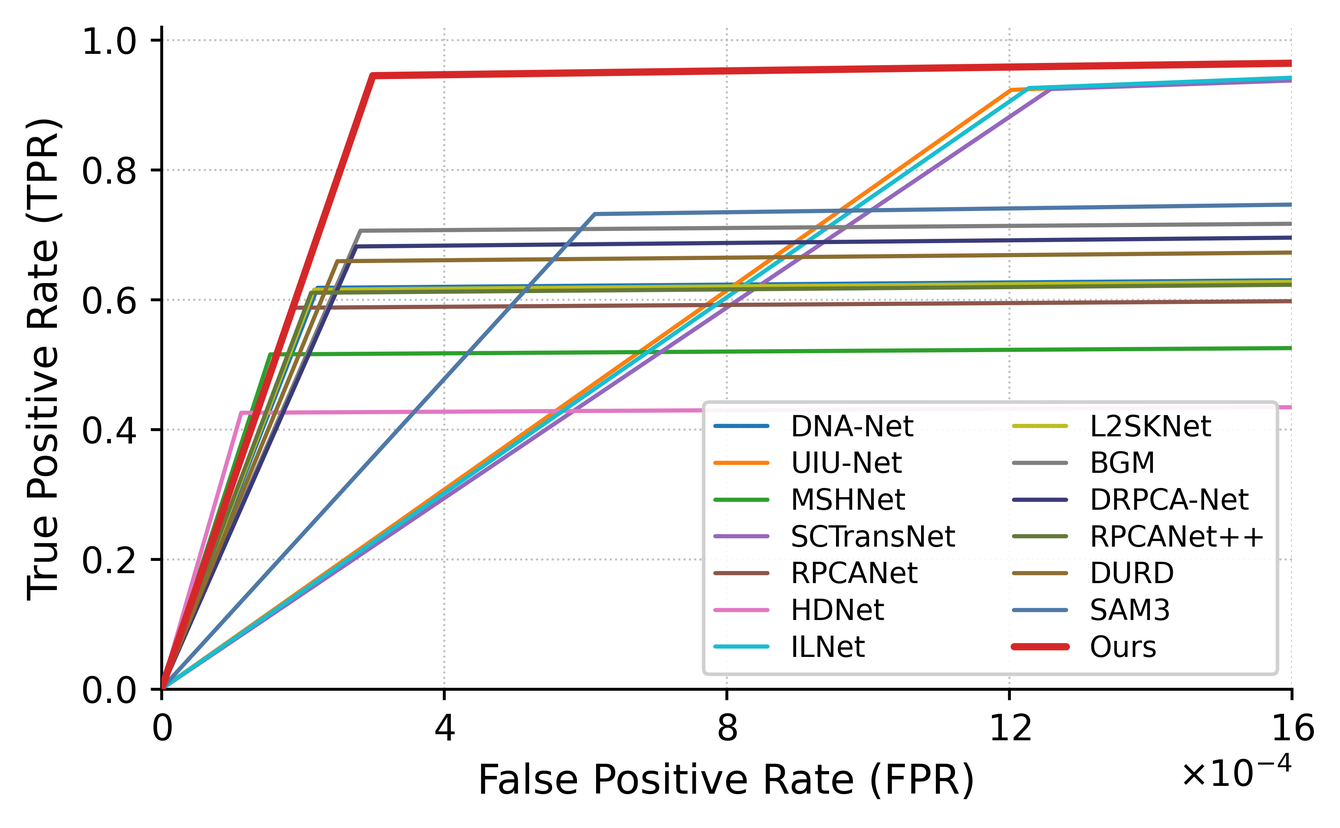
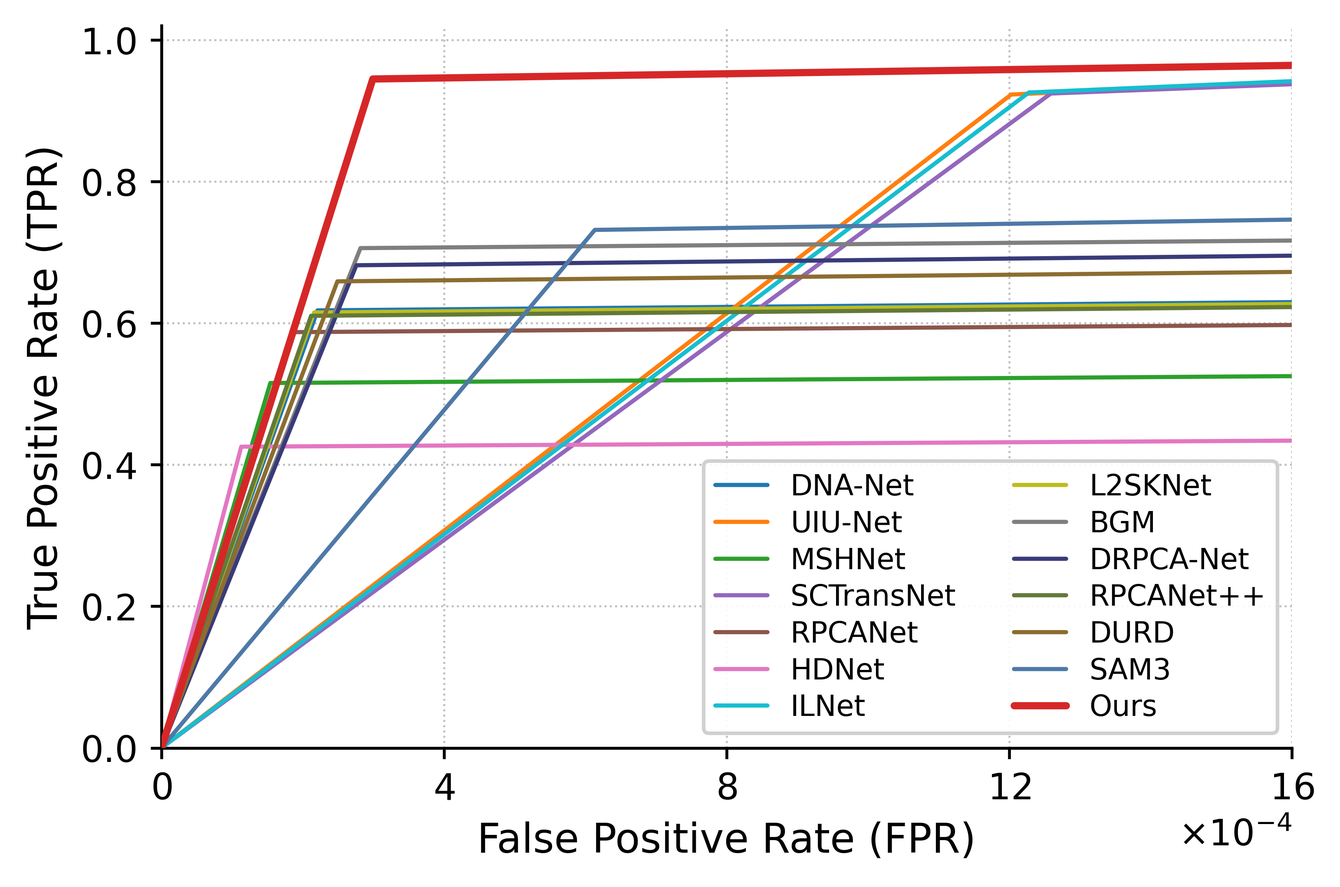
roc / pr_obj 高度从 3.3 in 提到 3.6 in，图例不再压住平台线
- 目的：框内图例（14 条、两列、8 pt）原来顶到 y≈0.45，正好盖住 HDNet 0.434 与
  MSHNet 0.522 的平台段；高度加到 3.6 in 后图例上沿降到 y≈0.40，这两条平台露出。
- tools/plot_roc_pr.py 新增 --fig-height（默认 3.3，--square 时忽略），
  roc 用 5.6x3.6；pr_obj 用 5.487x3.5387 对齐，两张 PNG 同为 3087x2043（1.51:1）。
- 字号仍是 --font-scale 1.25，曲线样式（无点、实线、倒角、图例只写方法名）不变。
- 服务器同步：roc.png sha ed344917…、pr_obj.png 50ab5f07…；docs 预览与 AGENTS/README 同步。

diff --git a/tools/plot_roc_pr.py b/tools/plot_roc_pr.py
@@ -303,6 +303,8 @@ def main():
     ap_.add_argument('--dpi', type=int, default=600)
     ap_.add_argument('--pr-style', choices=('v1', 'v2'), default='v1',
                      help='v1 = full PR curve with the (0,1) sentinel; v2 = trimmed')
+    ap_.add_argument('--fig-height', type=float, default=3.3,
+                     help='panel height in inches (ignored with --square)')
     ap_.add_argument('--fig-width', type=float, default=4.5,
                      help='single-panel figure width in inches (raise it for a longer x axis)')
     ap_.add_argument('--square', action='store_true',
@@ -363,7 +365,7 @@ def main():
               f'AUC={row["auc_roc"]:.4f}')
 
     # ---- ROC only, one polyline per method (the reference figure's layout)
-    fig, ax = plt.subplots(figsize=(args.fig_width, args.fig_width if args.square else 3.3))
+    fig, ax = plt.subplots(figsize=(args.fig_width, args.fig_width if args.square else args.fig_height))
     draw_roc(ax, data, args.xmax, two=args.two_segment, knee_frac=args.knee_frac, highlight=args.highlight)
     if args.square:
         ax.set_box_aspect(1)
@@ -375,7 +377,7 @@ def main():
     save(fig, args.outdir, 'roc', args.dpi)
 
     # ---- PR only
-    fig, ax = plt.subplots(figsize=(args.fig_width, args.fig_width if args.square else 3.3))
+    fig, ax = plt.subplots(figsize=(args.fig_width, args.fig_width if args.square else args.fig_height))
     draw_pr(ax, data, style=args.pr_style, highlight=args.highlight, cut_fpr=args.pr_cut_fpr,
             endpoint_dot=args.pr_endpoint_dot, min_pred=args.pr_min_pred,
             close=args.pr_close)

diff --git a/AGENTS.md b/AGENTS.md
@@ -67,7 +67,7 @@
 - 第三批（入表，行 29～32）：L2SKNet（TGRS25）、BGM（TGRS25）、DRPCA-Net（TGRS25）、DURD（TGRS26），均为 2025–2026 年、有官方代码的全监督单帧方法，12 个对比方法到此凑满。目录 `L2SKNet-main/`、`BGM-main/`、`DRPCA-Net-main/`、`DURD-main/`；训练设置：L2SKNet 150/Adam 5e-4、BGM 150/Adam 5e-4（两者模型输出已是概率，用概率空间 dataset 级 IoU）、DRPCA-Net 60/Adam 3e-5/dataset 级 SoftIoU + 0.01 MSE、DURD 100/Adam 1e-4/SoftIoU + 0.1 MSE。各处改动逐条写在对应实验记录与 [汇总](docs/Seal全监督基线评估汇总.md#训练不稳定与失败记录)。
 - 论文版式定性图（对齐 PDDiff Fig. 8/9）：[tools/build_paper_qualitative.py](tools/build_paper_qualitative.py)，每个样例两行（2D 二值面板 + 红框/放大插图；3D 响应面 `elev=26, azim=-64`、按面板 z 上限）。三条硬约束：① 3D 行必须喂**概率图**（`--surf-maps results/<M>/Seal/fullsup_test_maps`），二值图是 0/255 阶跃，画出来只有一根尖刺；② Seal 目标只有 3–5 px，`full` 版式（整幅 + 右下插图）在 0.87 in 列宽下几乎看不见，正式图用 `--roi-panels`（面板 = 6 倍放大 ROI，`--roi-min 64 --roi-margin 24`）；③ 11 列 × 11 样例按 9.6 in 出图，若按 7.2 in 排版表头掉到 5.6 pt，主图应拆成 `seal_pick6_roi` + `seal_pick5_roi` 两张。样例取 [docs/qualitative_rank_top200.json](docs/qualitative_rank_top200.json)（`score = F1(Ours) − mean_k F1(baseline_k)`，可用 [docs/qualitative_review_top200.html](docs/qualitative_review_top200.html) 逐图复核），当前采用排名 1,2,5,6,8,11,13,15,19,21,29 共 11 张，一键重建 [tools/make_paper_qualitative_pick.sh](tools/make_paper_qualitative_pick.sh)。Ours 预测在 `Ours/test_maps`（1,983 张概率图）、SAM3 在 `Ours/SAM3-test_maps`（同阈值 `>=128`）。版式规格、样例清单与读数见 [docs/Seal定性图_论文版式.md](docs/Seal定性图_论文版式.md)，预览 `docs/assets/seal_qualitative_pick6_roi.png`、`docs/assets/seal_qualitative_pick11_full.png`。全分辨率成品（600 dpi PNG + 矢量 PDF + meta，约 110 MB/版）按版本归档：服务器保留全部历史（v1 `Ours/qualitative/v1_20261104_11col/`、v2 `v2_20261105/`、v3 `v3_20261105/`、v4 `v4_20261105/`、v5 `v5_20261105/`、v6 `v6_20261105/`、v7 `v7_20261105/`、v8 `v8_20261105/`、v9 `v9_20261105/`、v10 `v10_20261105/`、v11 `v11_20261105/`、v12 `v12_20261105/`），本地只留最新一版在 `Ours/qualitative/v12_20261105/`；**整个 `Ours/qualitative/` 不进 git**（`.gitignore` 整目录排除，只有 `docs/assets/` 里的 1800 px 预览入库）。版式演进：v2 压紧列间距、3D 加网格 + 整数刻度 + 轴名、去掉黑色粗轴线；v3 加单图拆分与 Visio；v4 让 3D 盒子铺满格子（按格子尺寸渲染 PNG → 裁白边 → `aspect='auto'` 贴回）；**v5 解决「3D 白边仍偏大、峰不够高不够显眼」：裁边 26→6 px、平滑 σ 2.0→0.9、`vmax` 取平滑后峰值（峰顶到天花板）、Z 轴统一 0–255 保证跨列可比、盒子 z 比例 0.55→1.00、自定义 `seal3d` 色带（深蓝底→青→黄→亮红）+ `PowerNorm(0.45)`**；并新增 `--diag` 诊断面板（TP 白 / FP 红 / FN 绿 + 红框标 GT），Visio 改用诊断面板；**v6 把诊断面板的红框放大到至少占面板 36%（约 138 px、3 px 线）**；**v11：Ours 换成 1105 最新预测**（`Ours/test_maps` ← `1105Ours_result/Ours.zip`，旧预测存 `Ours/test_maps_20261105_prev`），版式同 v10；11 个样例在新预测下 F1 0.55–0.87、目标全检出（9 个胜全部基线，2 个仅比 SAM3 低 0.01–0.02），故沿用原 11 张；**v10 红框只留一个**：Image 列回到整幅 622×417（压缩成正方形）并画唯一一个正方形红框（v11 曾把边长统一为 `64×sqrt(sx·sy)≈48 px`；**v12 起 Image 列不再画任何红框**——统一 48 px 对 2688/2120/2894 三个大目标偏小、目标露到框外，而各列本来就是同一 ROI 的 6 倍放大，定位框不再必要，实测 Image 列 0 个红色像素；`--image-box` 仅保留为复现 v10/v11 的开关），Mask…Ours 不再画任何红框，保留 TP 白/FP 红/FN 绿；**v12 同时收紧 3D 刻度**：刻度数字向坐标轴收拢（x/y `pad` −3.0→−4.2、z −1.5→−2.2，字号 2.2→2.35），3D 渲染改用 `bbox_inches='tight'` 并统一贴到 848×804 画布（此前 3D 轴的数字画在 axes 之外、被画布直接裁掉，放进 Visio 后又被下一个样例的表头挡住），Visio `ALL` 页的 3D 图缩到 1.07 in 高（宽同比 1.129）让开下一块表头，2D 行与手画红框位置不动；`--image-mode crop417` 可换成 417×417 原比例窗口；**v9 去掉黑边**：ROI 从「以目标为中心后按边界裁」改成「固定边长正方形、贴边整体内移」，窗口永远完整落在图像内（此前 2735 这类贴右边界的样例裁成 64×43 后被补黑）；**v8 修正 Image 列**：原来它是整幅 622×417（红框=ROI 窗口），而 Mask/方法列是已经放大 6 倍的 ROI 块（红框=GT 定位框），两者天然不对应——现在 Image 列也取同一块 ROI 的 6 倍放大并套同一个定位框，11 列视野与框位置完全一致——红框是给人定位用的，v5 那版只比 GT 外扩 8 px，印刷尺寸下等于没有。**v7 再优化三点：① 3D 网格线 0.62 灰 / 0.45 pt、刻度数字 2.2 pt 近黑、每轴 3 个好刻度、去掉会撞车的 X/Y/Z 轴名；② Image 列 3D 改彩色（`seal3d` 色带 + 线性映射，与 PDDiff 一致）；③ 诊断面板遇到多目标时每个连通域各画一个红框（单目标 36% 面板、多目标 0.45/n）**。Visio 版由 [tools/make_visio_qualitative.ps1](tools/make_visio_qualitative.ps1) 用 Visio COM 生成（仅 Windows + 已装 Visio）：**第 1 页 `ALL` 把 11 个样例纵向摞成一页**（表头只出现一次，253 个形状，15×31.3 in），之后每样例一页（每页 34 个独立形状：表头矩形 + 22 张图片 + 页脚说明），全部可手动调整格式。
 - 定性图（论文拼图用）：12 个方法与 Ours 的二值预测图在 `results/<Method>/Seal/test_binary/`（1,983 张，`pixel >= 128` → 255），由 [tools/make_binary_maps.py](tools/make_binary_maps.py) 与 [tools/make_qualitative.sh](tools/make_qualitative.sh) 生成；样例拼图在服务器 `qualitative/<stem>/panel.png`（RGB/热红外/GT/预测叠加，13 行），样例清单 `docs/Seal定性对比样例.json`，说明见 [docs/Seal定性对比图.md](docs/Seal定性对比图.md)。
-- ROC / P-R / Pd–Fa 曲线：像素级曲线用 [tools/roc_hist.py](tools/roc_hist.py) 把预测值按 GT 前景（`gt > 127`）/背景分箱成 256 桶直方图（[tools/roc_hist_all.sh](tools/roc_hist_all.sh) → `results/roc_hist/<Method>.json`），目标级曲线用 [tools/target_curves.py](tools/target_curves.py) 在 63 个阈值上做 8 连通 + 质心 <3 px 一对一匹配（[tools/target_curves_all.sh](tools/target_curves_all.sh) 13 进程并行约 1.5 h → `results/target_curves/<Method>.json`）；出图分别是 [tools/plot_roc_pr.py](tools/plot_roc_pr.py) 与 [tools/plot_target_curves.py](tools/plot_target_curves.py)。产物按版本存 `Ours/roc_pr/<version>/`，**`v10_20261105/`（正文主图，Ours + 8 个重点对比方法：DNA-Net / MSHNet / RPCANet / HDNet / L2SKNet / BGM / RPCANet++ / SAM3）与 `v11_20261105/`（全量 14 条：再加 UIU-Net / SCTransNet / ILNet / DRPCA-Net / DURD）**，两者横轴都改成 **0–16×10⁻⁴（刻度 0/4/8/12/16）**，斜线因此更陡；**v10 用 1:1 坐标框（`--square`），v11 用 6.8×3.3 的长方形画布（不带 `--square`，约 1.92:1，用户偏好）**；`v9_20261105/`（全量）与 `v8_20261105/`（8 个）是 8×10⁻⁴ 宽扁版式的前身**，画法沿用 v5，Ours 红色加粗置顶（`--highlight Ours`）；`v7_20261105/` 是旧 Ours 预测的同一版式，`v6_20261105/` 是误删 Ours 的一版，二者仅留档；`v5_20261105/` 为 13 方法版（Ours + 12 基线），**`v12_20261105/` 为现行目标级 Pd–Fa（1105 批次，线性 + log）**，**`v13_20261105/` 是 v11 的 P-R 改进版**（画布、ROC 与 v11 逐点相同，只改 P-R 的显示：`--pr-min-pred 50000` + `--pr-endpoint-dot`，见下条），`v3_20261105/` 为旧预测的目标级版，`v4/v2/v1` 留档；每次同时存 PNG（600 dpi）与 PDF + `curves.json` + `summary.md`。**画法（用户明确要求）**：每个方法一条折线且只有两段直线——`(0,0) → 拐点 → (右边框, 平台)`；平台取右边框处的值（像素级 = TPR@FPR=窗口右端，目标级 = max Pd），拐点 = 沿横轴升序第一个 ≥0.98×平台 的点（`--two-segment`、`--knee-frac`）。横轴要够长（v10/v11 用 `--xmax 16e-4 --fig-width 4.8 --square`；v8/v9 为 `--xmax 8e-4 --fig-width 6.8`），否则平台贴右边框、看起来"戛然而止"；**`--square` 把坐标框设成 1:1**（`set_box_aspect(1)`），ROC 的斜线与纵轴夹角更小、P-R 是标准 45°；**`--legend-inside` 把图例放进坐标框**（ROC 右下、P-R 左下，>9 条自动两列），导出的 PNG 因此更紧凑（v10 正方形 2645×2564；v11 长方形 3589×1871）；两联图 `roc_pr` 的面板间距 0.28→0.14；改横轴时平台值按新的右边框取（`TPR@窗口右端`），所以 8→16×10⁻⁴ 后 SCTransNet/ILNet/UIU-Net 的平台从 0.88 升到 0.94；**面积指标仍报 `pAUC@5×10⁻⁴`**，该列不随画宽变化；P-R 保留 (0,1) 起点与 recall→1 的尾巴（`--pr-style v1`）；**P-R 为什么像"扇子且在半空截断"（v13 处理）**：Seal 预测是 8 位量化 + 大量硬零（`t=255` 时前景召回只有 0.25–0.61，多数方法在 28–57 % 的 GT 像素上恒为 0），recall 到不了 1，曲线右端自然停住；同时 `t` 接近 255 时整幅只剩几千个预测像素，precision 由个位数像素决定，于是 recall≈0 处冒出竖直毛刺、各条曲线分叉成扇面。v13 用两个**纯显示**开关处理、不动数据：`--pr-min-pred 50000` 丢掉"预测像素 < 5 万"的阈值（毛刺缩到几乎看不见）、`--pr-endpoint-dot` 在每条曲线末端加圆点（读作"到此为止"而非"画漏了"）；仍保留 (0,1) 哨兵，因为去掉后起点悬空（`--pr-style v2` 试过）。数据侧原因（硬零压低 recall）只能靠模型/后处理改，画图解决不了，分析见 [docs/Seal_ROC_PR曲线.md](docs/Seal_ROC_PR曲线.md)；**补充图 `v13_20261105/pr_1.{png,pdf}`**（`--pr-close`）把每条曲线从最后实测点**虚线**外推到 `(1,0)`、交接点画空心圆（实线=实测、虚线=外推）：这不是新数据，只说明"曲线本来就该到 (1,0)"——`recall=1` 时 precision 等于前景占比（Seal test 前景 105,712 px / 总 514,338,642 px = **2.06×10⁻⁴**），在 0–1 纵轴上即 0，所以补到 (1,0) 与补到 (1,2e-4) 肉眼无差；中间段按直线近似故称"大致"，虚线段不参与 pAUC/AP 积分，排名不变；补齐后各虚线在右下角**收成一束**是应有现象，不表示方法接近；**教科书式 P-R 两张补充图**：`v13_20261105/pr_2.{png,pdf}`（像素级、sklearn 惯例：256 个阈值含 `t=0`"全预测"、保留 (0,1) 哨兵，曲线自然终止于 (1,0)，AP 与 summary 一致 0.69984）与 `v13_20261105/pr_obj.{png,pdf}`（**对象级**：`recall` = 表中 Pd、`precision` = 匹配连通域 / 全部预测连通域，匹配规则与 Pd/Fa 相同；`t=128` 的 recall 与表中 Pd 逐位吻合、精度 Ours 0.960 vs 基线 0.66–0.75，Ours AP 0.890 vs 0.544–0.596，形状与参考图同形"高平台 + 右端陡降"，末端用实线同色补到 (1,0)、不画点、拐角 `--corner-radius 0.03` 贝塞尔倒角，**图例只写方法名**（AP 见 [docs/Seal_ROC_PR曲线.md](docs/Seal_ROC_PR曲线.md) 的表，要标回图上加 `--show-ap`）；**字号**：`roc` 与 `pr_obj` 用 `--font-scale 1.25` 出图（轴标签 9→11.25 pt、刻度 8→10 pt、图例 6.4→8 pt），画幅同步收窄到 **1.62:1**（`--fig-width 5.6`，高度固定 3.3；pr_obj 用 5.487×3.239 对齐），两张 PNG 同为 3087×1907（`plot_roc_pr.py`、`plot_pr_object.py` 都带 `--font-scale`，默认 1.0；v13 的 `pr.png`/`roc_pr.png` 仍是 1.0 版、1.92:1 宽幅）；图注须写明 0.71–0.92 → 1.0 那段不是实测，因对象级召回上限只有 0.71–0.92））；实现 [tools/target_pr.py](tools/target_pr.py)（输出 `results/target_pr/<stem>.json`，[tools/target_pr_all.sh](tools/target_pr_all.sh) 并行约 12 min）、[tools/plot_pr_object.py](tools/plot_pr_object.py)、[tools/plot_pr_textbook.py](tools/plot_pr_textbook.py)；**参考图"精度贴 1.0 平推"像素级做不到**——0.02 % 前景下 255 这一筒的精度只有 Ours 0.835、SAM3 0.651、DNA-Net 0.390，像素级只能从 0.83 起步；正文若配像素级 ROC 用 `pr_2`，配目标级 Pd–Fa（v12）用 `pr_obj`，两者 AP 不可互比、都不进 xlsx；图例贴紧坐标轴右缘（`bbox_to_anchor=(ax.x1+0.012, …)`，锚在固定图幅比例上会留一大片空白）；`--highlight` 指定加粗置顶的方法（默认 `Ours`，方法集里没有它时不加粗）；**红色只留给 highlight**，其余曲线从不含红色的 16 色调色板里取（`color_map()`），否则 14 条曲线时第一个基线和 Ours 会同为红色。**一致性**：像素级 `t=128` 的 precision/recall 可复原表中 F1/IoU（Ours precision 0.58130、recall 0.82963 → F1 0.68361、IoU 0.51931，与第 20 行一致；旧预测同点为 0.64637/0.59388 → 0.61912/0.44835）；目标级 `t=128` 的 Pd/Fa 与表中 13 行全部逐位吻合（Ours 0.89151 / 1.717e-05，与第 20 行一致；旧预测 0.82731 / 2.100e-06 存档于 `results/target_curves/Ours_prev_20261105.json`）。**读图**：① 面积指标报 **pAUC@5×10⁻⁴**（基线操作点 Fa@t=128 ≤ 2.4×10⁻⁴）；v8 换上 1105 的最新 Ours 后，两个窗口的 pAUC（**0.85234 / 0.89420**）与 AP（**0.69984**）都第一，像素 TPR@t=128 从 0.594 提到 **0.830**、FPR 从 6.7×10⁻⁵ 升到 1.2×10⁻⁴（仍是 9 个里第二低）；ROC 上 Ours 在 FPR≈3×10⁻⁴ 就到 0.94 平台，其余 8 个最高只有 0.737；SAM3 平台最高（0.737）但拐点在 4.9×10⁻⁴、Fa 是 Ours 的 3.6 倍，属"用更多误检换更高检出"，正文要把 Fa 一并给出；画到 8×10⁻⁴ 后按窗口积的 `pAUC@8×10⁻⁴` 会把弥散输出方法抬高，summary 两个窗口都列；② 全范围 AUC 不能用来排名（几乎不预测前景的方法 0.977–0.981），与 S/MAE 被背景主导同类；③ 目标级图（`v12_20261105/`，1105 批次）Ours 平台 Pd 0.922 最高、拐点 Fa 6.0×10⁻⁶ 比次优 HDNet（5.2×10⁻⁵）低 8.6 倍，拐点 Fa 跨度 17 倍，**目标级仍主推 log 轴**；④ 像素级 `Pd@t=128` 是前景像素召回率，与表中目标级 Pd 不同口径。曲线成品按同样目录结构同步到服务器 `Ours/roc_pr/`，重画脚本同步在服务器 `tools/`；1105 的 Ours 预测包同时上传到服务器 `Ours/1105Ours_result/Ours.zip`。**曲线与第 20 行 Ours 的八项指标现在同为 1105 这批预测**，可以互相引证；旧预测（`test_maps_20261105_prev`）的曲线与指标只作历史对照。口径、版本对照与复现命令见 [docs/Seal_ROC_PR曲线.md](docs/Seal_ROC_PR曲线.md)，预览 `docs/assets/seal_roc_pr_v13.png`（现行，全量 14 条）、`docs/assets/seal_roc_pr_v10.png`（8 个对比方法版）、`docs/assets/seal_pd_fa_v12.png`（现行目标级）、`docs/assets/seal_pd_fa_v3.png`（旧预测目标级）。
+- ROC / P-R / Pd–Fa 曲线：像素级曲线用 [tools/roc_hist.py](tools/roc_hist.py) 把预测值按 GT 前景（`gt > 127`）/背景分箱成 256 桶直方图（[tools/roc_hist_all.sh](tools/roc_hist_all.sh) → `results/roc_hist/<Method>.json`），目标级曲线用 [tools/target_curves.py](tools/target_curves.py) 在 63 个阈值上做 8 连通 + 质心 <3 px 一对一匹配（[tools/target_curves_all.sh](tools/target_curves_all.sh) 13 进程并行约 1.5 h → `results/target_curves/<Method>.json`）；出图分别是 [tools/plot_roc_pr.py](tools/plot_roc_pr.py) 与 [tools/plot_target_curves.py](tools/plot_target_curves.py)。产物按版本存 `Ours/roc_pr/<version>/`，**`v10_20261105/`（正文主图，Ours + 8 个重点对比方法：DNA-Net / MSHNet / RPCANet / HDNet / L2SKNet / BGM / RPCANet++ / SAM3）与 `v11_20261105/`（全量 14 条：再加 UIU-Net / SCTransNet / ILNet / DRPCA-Net / DURD）**，两者横轴都改成 **0–16×10⁻⁴（刻度 0/4/8/12/16）**，斜线因此更陡；**v10 用 1:1 坐标框（`--square`），v11 用 6.8×3.3 的长方形画布（不带 `--square`，约 1.92:1，用户偏好）**；`v9_20261105/`（全量）与 `v8_20261105/`（8 个）是 8×10⁻⁴ 宽扁版式的前身**，画法沿用 v5，Ours 红色加粗置顶（`--highlight Ours`）；`v7_20261105/` 是旧 Ours 预测的同一版式，`v6_20261105/` 是误删 Ours 的一版，二者仅留档；`v5_20261105/` 为 13 方法版（Ours + 12 基线），**`v12_20261105/` 为现行目标级 Pd–Fa（1105 批次，线性 + log）**，**`v13_20261105/` 是 v11 的 P-R 改进版**（画布、ROC 与 v11 逐点相同，只改 P-R 的显示：`--pr-min-pred 50000` + `--pr-endpoint-dot`，见下条），`v3_20261105/` 为旧预测的目标级版，`v4/v2/v1` 留档；每次同时存 PNG（600 dpi）与 PDF + `curves.json` + `summary.md`。**画法（用户明确要求）**：每个方法一条折线且只有两段直线——`(0,0) → 拐点 → (右边框, 平台)`；平台取右边框处的值（像素级 = TPR@FPR=窗口右端，目标级 = max Pd），拐点 = 沿横轴升序第一个 ≥0.98×平台 的点（`--two-segment`、`--knee-frac`）。横轴要够长（v10/v11 用 `--xmax 16e-4 --fig-width 4.8 --square`；v8/v9 为 `--xmax 8e-4 --fig-width 6.8`），否则平台贴右边框、看起来"戛然而止"；**`--square` 把坐标框设成 1:1**（`set_box_aspect(1)`），ROC 的斜线与纵轴夹角更小、P-R 是标准 45°；**`--legend-inside` 把图例放进坐标框**（ROC 右下、P-R 左下，>9 条自动两列），导出的 PNG 因此更紧凑（v10 正方形 2645×2564；v11 长方形 3589×1871）；两联图 `roc_pr` 的面板间距 0.28→0.14；改横轴时平台值按新的右边框取（`TPR@窗口右端`），所以 8→16×10⁻⁴ 后 SCTransNet/ILNet/UIU-Net 的平台从 0.88 升到 0.94；**面积指标仍报 `pAUC@5×10⁻⁴`**，该列不随画宽变化；P-R 保留 (0,1) 起点与 recall→1 的尾巴（`--pr-style v1`）；**P-R 为什么像"扇子且在半空截断"（v13 处理）**：Seal 预测是 8 位量化 + 大量硬零（`t=255` 时前景召回只有 0.25–0.61，多数方法在 28–57 % 的 GT 像素上恒为 0），recall 到不了 1，曲线右端自然停住；同时 `t` 接近 255 时整幅只剩几千个预测像素，precision 由个位数像素决定，于是 recall≈0 处冒出竖直毛刺、各条曲线分叉成扇面。v13 用两个**纯显示**开关处理、不动数据：`--pr-min-pred 50000` 丢掉"预测像素 < 5 万"的阈值（毛刺缩到几乎看不见）、`--pr-endpoint-dot` 在每条曲线末端加圆点（读作"到此为止"而非"画漏了"）；仍保留 (0,1) 哨兵，因为去掉后起点悬空（`--pr-style v2` 试过）。数据侧原因（硬零压低 recall）只能靠模型/后处理改，画图解决不了，分析见 [docs/Seal_ROC_PR曲线.md](docs/Seal_ROC_PR曲线.md)；**补充图 `v13_20261105/pr_1.{png,pdf}`**（`--pr-close`）把每条曲线从最后实测点**虚线**外推到 `(1,0)`、交接点画空心圆（实线=实测、虚线=外推）：这不是新数据，只说明"曲线本来就该到 (1,0)"——`recall=1` 时 precision 等于前景占比（Seal test 前景 105,712 px / 总 514,338,642 px = **2.06×10⁻⁴**），在 0–1 纵轴上即 0，所以补到 (1,0) 与补到 (1,2e-4) 肉眼无差；中间段按直线近似故称"大致"，虚线段不参与 pAUC/AP 积分，排名不变；补齐后各虚线在右下角**收成一束**是应有现象，不表示方法接近；**教科书式 P-R 两张补充图**：`v13_20261105/pr_2.{png,pdf}`（像素级、sklearn 惯例：256 个阈值含 `t=0`"全预测"、保留 (0,1) 哨兵，曲线自然终止于 (1,0)，AP 与 summary 一致 0.69984）与 `v13_20261105/pr_obj.{png,pdf}`（**对象级**：`recall` = 表中 Pd、`precision` = 匹配连通域 / 全部预测连通域，匹配规则与 Pd/Fa 相同；`t=128` 的 recall 与表中 Pd 逐位吻合、精度 Ours 0.960 vs 基线 0.66–0.75，Ours AP 0.890 vs 0.544–0.596，形状与参考图同形"高平台 + 右端陡降"，末端用实线同色补到 (1,0)、不画点、拐角 `--corner-radius 0.03` 贝塞尔倒角，**图例只写方法名**（AP 见 [docs/Seal_ROC_PR曲线.md](docs/Seal_ROC_PR曲线.md) 的表，要标回图上加 `--show-ap`）；**字号**：`roc` 与 `pr_obj` 用 `--font-scale 1.25` 出图（轴标签 9→11.25 pt、刻度 8→10 pt、图例 6.4→8 pt），画幅 **1.51:1**（`--fig-width 5.6 --fig-height 3.6`；pr_obj 用 5.487×3.5387 对齐），两张 PNG 同为 3087×2043（高度从 3.3 in 提到 3.6 in 是为了让框内图例不再压住平台线：HDNet 的 0.434 平台正好露在框上沿）（`plot_roc_pr.py`、`plot_pr_object.py` 都带 `--font-scale`，默认 1.0；v13 的 `pr.png`/`roc_pr.png` 仍是 1.0 版、1.92:1 宽幅）；图注须写明 0.71–0.92 → 1.0 那段不是实测，因对象级召回上限只有 0.71–0.92））；实现 [tools/target_pr.py](tools/target_pr.py)（输出 `results/target_pr/<stem>.json`，[tools/target_pr_all.sh](tools/target_pr_all.sh) 并行约 12 min）、[tools/plot_pr_object.py](tools/plot_pr_object.py)、[tools/plot_pr_textbook.py](tools/plot_pr_textbook.py)；**参考图"精度贴 1.0 平推"像素级做不到**——0.02 % 前景下 255 这一筒的精度只有 Ours 0.835、SAM3 0.651、DNA-Net 0.390，像素级只能从 0.83 起步；正文若配像素级 ROC 用 `pr_2`，配目标级 Pd–Fa（v12）用 `pr_obj`，两者 AP 不可互比、都不进 xlsx；图例贴紧坐标轴右缘（`bbox_to_anchor=(ax.x1+0.012, …)`，锚在固定图幅比例上会留一大片空白）；`--highlight` 指定加粗置顶的方法（默认 `Ours`，方法集里没有它时不加粗）；**红色只留给 highlight**，其余曲线从不含红色的 16 色调色板里取（`color_map()`），否则 14 条曲线时第一个基线和 Ours 会同为红色。**一致性**：像素级 `t=128` 的 precision/recall 可复原表中 F1/IoU（Ours precision 0.58130、recall 0.82963 → F1 0.68361、IoU 0.51931，与第 20 行一致；旧预测同点为 0.64637/0.59388 → 0.61912/0.44835）；目标级 `t=128` 的 Pd/Fa 与表中 13 行全部逐位吻合（Ours 0.89151 / 1.717e-05，与第 20 行一致；旧预测 0.82731 / 2.100e-06 存档于 `results/target_curves/Ours_prev_20261105.json`）。**读图**：① 面积指标报 **pAUC@5×10⁻⁴**（基线操作点 Fa@t=128 ≤ 2.4×10⁻⁴）；v8 换上 1105 的最新 Ours 后，两个窗口的 pAUC（**0.85234 / 0.89420**）与 AP（**0.69984**）都第一，像素 TPR@t=128 从 0.594 提到 **0.830**、FPR 从 6.7×10⁻⁵ 升到 1.2×10⁻⁴（仍是 9 个里第二低）；ROC 上 Ours 在 FPR≈3×10⁻⁴ 就到 0.94 平台，其余 8 个最高只有 0.737；SAM3 平台最高（0.737）但拐点在 4.9×10⁻⁴、Fa 是 Ours 的 3.6 倍，属"用更多误检换更高检出"，正文要把 Fa 一并给出；画到 8×10⁻⁴ 后按窗口积的 `pAUC@8×10⁻⁴` 会把弥散输出方法抬高，summary 两个窗口都列；② 全范围 AUC 不能用来排名（几乎不预测前景的方法 0.977–0.981），与 S/MAE 被背景主导同类；③ 目标级图（`v12_20261105/`，1105 批次）Ours 平台 Pd 0.922 最高、拐点 Fa 6.0×10⁻⁶ 比次优 HDNet（5.2×10⁻⁵）低 8.6 倍，拐点 Fa 跨度 17 倍，**目标级仍主推 log 轴**；④ 像素级 `Pd@t=128` 是前景像素召回率，与表中目标级 Pd 不同口径。曲线成品按同样目录结构同步到服务器 `Ours/roc_pr/`，重画脚本同步在服务器 `tools/`；1105 的 Ours 预测包同时上传到服务器 `Ours/1105Ours_result/Ours.zip`。**曲线与第 20 行 Ours 的八项指标现在同为 1105 这批预测**，可以互相引证；旧预测（`test_maps_20261105_prev`）的曲线与指标只作历史对照。口径、版本对照与复现命令见 [docs/Seal_ROC_PR曲线.md](docs/Seal_ROC_PR曲线.md)，预览 `docs/assets/seal_roc_pr_v13.png`（现行，全量 14 条）、`docs/assets/seal_roc_pr_v10.png`（8 个对比方法版）、`docs/assets/seal_pd_fa_v12.png`（现行目标级）、`docs/assets/seal_pd_fa_v3.png`（旧预测目标级）。
 - IoU 的边界敏感性：Seal 目标平均 14.3 像素，把 GT 膨胀/腐蚀 1 像素当预测只能得到 IoU 0.3910 / 0.0826；表中 IoU 0.19–0.31 对应约 1–2 像素边界误差，不能读作分割质量百分比，须与 Fw/F1/Pd/Fa 合看，详见 [定义对照](docs/小目标评价指标_定义与代码对照.md#iou-的边界敏感性seal-gt-实测)。
 - 实验记录：[ACM](docs/ACM_Seal实验记录.md)、[DNA-Net](docs/DNANet_Seal实验记录.md)、[MSHNet](docs/MSHNet_Seal实验记录.md)、[UIU-Net](docs/UIU-Net_Seal实验记录.md)、[SCTransNet](docs/SCTransNet_Seal实验记录.md)、[RPCANet](docs/RPCANet_Seal实验记录.md)、[HDNet](docs/HDNet_Seal实验记录.md)、[ILNet](docs/ILNet_Seal实验记录.md)、[RPCANet++](docs/RPCANet++_Seal实验记录.md)、[L2SKNet](docs/L2SKNet_Seal实验记录.md)、[BGM](docs/BGM_Seal实验记录.md)、[DRPCA-Net](docs/DRPCA-Net_Seal实验记录.md)、[DURD](docs/DURD_Seal实验记录.md)、[DHiF](docs/DHiF_Seal实验记录.md)，汇总见 [Seal全监督基线评估汇总](docs/Seal全监督基线评估汇总.md)，定性图见 [Seal定性对比图](docs/Seal定性对比图.md)。
 

diff --git a/README.md b/README.md
@@ -70,7 +70,7 @@
 - 第三批（入表，行 29～32）：L2SKNet（TGRS25）、BGM（TGRS25）、DRPCA-Net（TGRS25）、DURD（TGRS26），均为 2025–2026 年、有官方代码的全监督单帧方法，12 个对比方法到此凑满。目录 `L2SKNet-main/`、`BGM-main/`、`DRPCA-Net-main/`、`DURD-main/`；训练设置：L2SKNet 150/Adam 5e-4、BGM 150/Adam 5e-4（两者模型输出已是概率，用概率空间 dataset 级 IoU）、DRPCA-Net 60/Adam 3e-5/dataset 级 SoftIoU + 0.01 MSE、DURD 100/Adam 1e-4/SoftIoU + 0.1 MSE。各处改动逐条写在对应实验记录与 [汇总](docs/Seal全监督基线评估汇总.md#训练不稳定与失败记录)。
 - 论文版式定性图（对齐 PDDiff Fig. 8/9）：[tools/build_paper_qualitative.py](tools/build_paper_qualitative.py)，每个样例两行（2D 二值面板 + 红框/放大插图；3D 响应面 `elev=26, azim=-64`、按面板 z 上限）。三条硬约束：① 3D 行必须喂**概率图**（`--surf-maps results/<M>/Seal/fullsup_test_maps`），二值图是 0/255 阶跃，画出来只有一根尖刺；② Seal 目标只有 3–5 px，`full` 版式（整幅 + 右下插图）在 0.87 in 列宽下几乎看不见，正式图用 `--roi-panels`（面板 = 6 倍放大 ROI，`--roi-min 64 --roi-margin 24`）；③ 11 列 × 11 样例按 9.6 in 出图，若按 7.2 in 排版表头掉到 5.6 pt，主图应拆成 `seal_pick6_roi` + `seal_pick5_roi` 两张。样例取 [docs/qualitative_rank_top200.json](docs/qualitative_rank_top200.json)（`score = F1(Ours) − mean_k F1(baseline_k)`，可用 [docs/qualitative_review_top200.html](docs/qualitative_review_top200.html) 逐图复核），当前采用排名 1,2,5,6,8,11,13,15,19,21,29 共 11 张，一键重建 [tools/make_paper_qualitative_pick.sh](tools/make_paper_qualitative_pick.sh)。Ours 预测在 `Ours/test_maps`（1,983 张概率图）、SAM3 在 `Ours/SAM3-test_maps`（同阈值 `>=128`）。版式规格、样例清单与读数见 [docs/Seal定性图_论文版式.md](docs/Seal定性图_论文版式.md)，预览 `docs/assets/seal_qualitative_pick6_roi.png`、`docs/assets/seal_qualitative_pick11_full.png`。全分辨率成品（600 dpi PNG + 矢量 PDF + meta，约 110 MB/版）按版本归档：服务器保留全部历史（v1 `Ours/qualitative/v1_20261104_11col/`、v2 `v2_20261105/`、v3 `v3_20261105/`、v4 `v4_20261105/`、v5 `v5_20261105/`、v6 `v6_20261105/`、v7 `v7_20261105/`、v8 `v8_20261105/`、v9 `v9_20261105/`、v10 `v10_20261105/`、v11 `v11_20261105/`、v12 `v12_20261105/`），本地只留最新一版在 `Ours/qualitative/v12_20261105/`；**整个 `Ours/qualitative/` 不进 git**（`.gitignore` 整目录排除，只有 `docs/assets/` 里的 1800 px 预览入库）。版式演进：v2 压紧列间距、3D 加网格 + 整数刻度 + 轴名、去掉黑色粗轴线；v3 加单图拆分与 Visio；v4 让 3D 盒子铺满格子（按格子尺寸渲染 PNG → 裁白边 → `aspect='auto'` 贴回）；**v5 解决「3D 白边仍偏大、峰不够高不够显眼」：裁边 26→6 px、平滑 σ 2.0→0.9、`vmax` 取平滑后峰值（峰顶到天花板）、Z 轴统一 0–255 保证跨列可比、盒子 z 比例 0.55→1.00、自定义 `seal3d` 色带（深蓝底→青→黄→亮红）+ `PowerNorm(0.45)`**；并新增 `--diag` 诊断面板（TP 白 / FP 红 / FN 绿 + 红框标 GT），Visio 改用诊断面板；**v6 把诊断面板的红框放大到至少占面板 36%（约 138 px、3 px 线）**；**v11：Ours 换成 1105 最新预测**（`Ours/test_maps` ← `1105Ours_result/Ours.zip`，旧预测存 `Ours/test_maps_20261105_prev`），版式同 v10；11 个样例在新预测下 F1 0.55–0.87、目标全检出（9 个胜全部基线，2 个仅比 SAM3 低 0.01–0.02），故沿用原 11 张；**v10 红框只留一个**：Image 列回到整幅 622×417（压缩成正方形）并画唯一一个正方形红框（v11 曾把边长统一为 `64×sqrt(sx·sy)≈48 px`；**v12 起 Image 列不再画任何红框**——统一 48 px 对 2688/2120/2894 三个大目标偏小、目标露到框外，而各列本来就是同一 ROI 的 6 倍放大，定位框不再必要，实测 Image 列 0 个红色像素；`--image-box` 仅保留为复现 v10/v11 的开关），Mask…Ours 不再画任何红框，保留 TP 白/FP 红/FN 绿；**v12 同时收紧 3D 刻度**：刻度数字向坐标轴收拢（x/y `pad` −3.0→−4.2、z −1.5→−2.2，字号 2.2→2.35），3D 渲染改用 `bbox_inches='tight'` 并统一贴到 848×804 画布（此前 3D 轴的数字画在 axes 之外、被画布直接裁掉，放进 Visio 后又被下一个样例的表头挡住），Visio `ALL` 页的 3D 图缩到 1.07 in 高（宽同比 1.129）让开下一块表头，2D 行与手画红框位置不动；`--image-mode crop417` 可换成 417×417 原比例窗口；**v9 去掉黑边**：ROI 从「以目标为中心后按边界裁」改成「固定边长正方形、贴边整体内移」，窗口永远完整落在图像内（此前 2735 这类贴右边界的样例裁成 64×43 后被补黑）；**v8 修正 Image 列**：原来它是整幅 622×417（红框=ROI 窗口），而 Mask/方法列是已经放大 6 倍的 ROI 块（红框=GT 定位框），两者天然不对应——现在 Image 列也取同一块 ROI 的 6 倍放大并套同一个定位框，11 列视野与框位置完全一致——红框是给人定位用的，v5 那版只比 GT 外扩 8 px，印刷尺寸下等于没有。**v7 再优化三点：① 3D 网格线 0.62 灰 / 0.45 pt、刻度数字 2.2 pt 近黑、每轴 3 个好刻度、去掉会撞车的 X/Y/Z 轴名；② Image 列 3D 改彩色（`seal3d` 色带 + 线性映射，与 PDDiff 一致）；③ 诊断面板遇到多目标时每个连通域各画一个红框（单目标 36% 面板、多目标 0.45/n）**。Visio 版由 [tools/make_visio_qualitative.ps1](tools/make_visio_qualitative.ps1) 用 Visio COM 生成（仅 Windows + 已装 Visio）：**第 1 页 `ALL` 把 11 个样例纵向摞成一页**（表头只出现一次，253 个形状，15×31.3 in），之后每样例一页（每页 34 个独立形状：表头矩形 + 22 张图片 + 页脚说明），全部可手动调整格式。
 - 定性图（论文拼图用）：12 个方法与 Ours 的二值预测图在 `results/<Method>/Seal/test_binary/`（1,983 张，`pixel >= 128` → 255），由 [tools/make_binary_maps.py](tools/make_binary_maps.py) 与 [tools/make_qualitative.sh](tools/make_qualitative.sh) 生成；样例拼图在服务器 `qualitative/<stem>/panel.png`（RGB/热红外/GT/预测叠加，13 行），样例清单 `docs/Seal定性对比样例.json`，说明见 [docs/Seal定性对比图.md](docs/Seal定性对比图.md)。
-- ROC / P-R / Pd–Fa 曲线：像素级曲线用 [tools/roc_hist.py](tools/roc_hist.py) 把预测值按 GT 前景（`gt > 127`）/背景分箱成 256 桶直方图（[tools/roc_hist_all.sh](tools/roc_hist_all.sh) → `results/roc_hist/<Method>.json`），目标级曲线用 [tools/target_curves.py](tools/target_curves.py) 在 63 个阈值上做 8 连通 + 质心 <3 px 一对一匹配（[tools/target_curves_all.sh](tools/target_curves_all.sh) 13 进程并行约 1.5 h → `results/target_curves/<Method>.json`）；出图分别是 [tools/plot_roc_pr.py](tools/plot_roc_pr.py) 与 [tools/plot_target_curves.py](tools/plot_target_curves.py)。产物按版本存 `Ours/roc_pr/<version>/`，**`v10_20261105/`（正文主图，Ours + 8 个重点对比方法：DNA-Net / MSHNet / RPCANet / HDNet / L2SKNet / BGM / RPCANet++ / SAM3）与 `v11_20261105/`（全量 14 条：再加 UIU-Net / SCTransNet / ILNet / DRPCA-Net / DURD）**，两者横轴都改成 **0–16×10⁻⁴（刻度 0/4/8/12/16）**，斜线因此更陡；**v10 用 1:1 坐标框（`--square`），v11 用 6.8×3.3 的长方形画布（不带 `--square`，约 1.92:1，用户偏好）**；`v9_20261105/`（全量）与 `v8_20261105/`（8 个）是 8×10⁻⁴ 宽扁版式的前身**，画法沿用 v5，Ours 红色加粗置顶（`--highlight Ours`）；`v7_20261105/` 是旧 Ours 预测的同一版式，`v6_20261105/` 是误删 Ours 的一版，二者仅留档；`v5_20261105/` 为 13 方法版（Ours + 12 基线），**`v12_20261105/` 为现行目标级 Pd–Fa（1105 批次，线性 + log）**，**`v13_20261105/` 是 v11 的 P-R 改进版**（画布、ROC 与 v11 逐点相同，只改 P-R 的显示：`--pr-min-pred 50000` + `--pr-endpoint-dot`，见下条），`v3_20261105/` 为旧预测的目标级版，`v4/v2/v1` 留档；每次同时存 PNG（600 dpi）与 PDF + `curves.json` + `summary.md`。**画法（用户明确要求）**：每个方法一条折线且只有两段直线——`(0,0) → 拐点 → (右边框, 平台)`；平台取右边框处的值（像素级 = TPR@FPR=窗口右端，目标级 = max Pd），拐点 = 沿横轴升序第一个 ≥0.98×平台 的点（`--two-segment`、`--knee-frac`）。横轴要够长（v10/v11 用 `--xmax 16e-4 --fig-width 4.8 --square`；v8/v9 为 `--xmax 8e-4 --fig-width 6.8`），否则平台贴右边框、看起来"戛然而止"；**`--square` 把坐标框设成 1:1**（`set_box_aspect(1)`），ROC 的斜线与纵轴夹角更小、P-R 是标准 45°；**`--legend-inside` 把图例放进坐标框**（ROC 右下、P-R 左下，>9 条自动两列），导出的 PNG 因此更紧凑（v10 正方形 2645×2564；v11 长方形 3589×1871）；两联图 `roc_pr` 的面板间距 0.28→0.14；改横轴时平台值按新的右边框取（`TPR@窗口右端`），所以 8→16×10⁻⁴ 后 SCTransNet/ILNet/UIU-Net 的平台从 0.88 升到 0.94；**面积指标仍报 `pAUC@5×10⁻⁴`**，该列不随画宽变化；P-R 保留 (0,1) 起点与 recall→1 的尾巴（`--pr-style v1`）；**P-R 为什么像"扇子且在半空截断"（v13 处理）**：Seal 预测是 8 位量化 + 大量硬零（`t=255` 时前景召回只有 0.25–0.61，多数方法在 28–57 % 的 GT 像素上恒为 0），recall 到不了 1，曲线右端自然停住；同时 `t` 接近 255 时整幅只剩几千个预测像素，precision 由个位数像素决定，于是 recall≈0 处冒出竖直毛刺、各条曲线分叉成扇面。v13 用两个**纯显示**开关处理、不动数据：`--pr-min-pred 50000` 丢掉"预测像素 < 5 万"的阈值（毛刺缩到几乎看不见）、`--pr-endpoint-dot` 在每条曲线末端加圆点（读作"到此为止"而非"画漏了"）；仍保留 (0,1) 哨兵，因为去掉后起点悬空（`--pr-style v2` 试过）。数据侧原因（硬零压低 recall）只能靠模型/后处理改，画图解决不了，分析见 [docs/Seal_ROC_PR曲线.md](docs/Seal_ROC_PR曲线.md)；**补充图 `v13_20261105/pr_1.{png,pdf}`**（`--pr-close`）把每条曲线从最后实测点**虚线**外推到 `(1,0)`、交接点画空心圆（实线=实测、虚线=外推）：这不是新数据，只说明"曲线本来就该到 (1,0)"——`recall=1` 时 precision 等于前景占比（Seal test 前景 105,712 px / 总 514,338,642 px = **2.06×10⁻⁴**），在 0–1 纵轴上即 0，所以补到 (1,0) 与补到 (1,2e-4) 肉眼无差；中间段按直线近似故称"大致"，虚线段不参与 pAUC/AP 积分，排名不变；补齐后各虚线在右下角**收成一束**是应有现象，不表示方法接近；**教科书式 P-R 两张补充图**：`v13_20261105/pr_2.{png,pdf}`（像素级、sklearn 惯例：256 个阈值含 `t=0`"全预测"、保留 (0,1) 哨兵，曲线自然终止于 (1,0)，AP 与 summary 一致 0.69984）与 `v13_20261105/pr_obj.{png,pdf}`（**对象级**：`recall` = 表中 Pd、`precision` = 匹配连通域 / 全部预测连通域，匹配规则与 Pd/Fa 相同；`t=128` 的 recall 与表中 Pd 逐位吻合、精度 Ours 0.960 vs 基线 0.66–0.75，Ours AP 0.890 vs 0.544–0.596，形状与参考图同形"高平台 + 右端陡降"，末端用实线同色补到 (1,0)、不画点、拐角 `--corner-radius 0.03` 贝塞尔倒角，**图例只写方法名**（AP 见 [docs/Seal_ROC_PR曲线.md](docs/Seal_ROC_PR曲线.md) 的表，要标回图上加 `--show-ap`）；**字号**：`roc` 与 `pr_obj` 用 `--font-scale 1.25` 出图（轴标签 9→11.25 pt、刻度 8→10 pt、图例 6.4→8 pt），画幅同步收窄到 **1.62:1**（`--fig-width 5.6`，高度固定 3.3；pr_obj 用 5.487×3.239 对齐），两张 PNG 同为 3087×1907（`plot_roc_pr.py`、`plot_pr_object.py` 都带 `--font-scale`，默认 1.0；v13 的 `pr.png`/`roc_pr.png` 仍是 1.0 版、1.92:1 宽幅）；图注须写明 0.71–0.92 → 1.0 那段不是实测，因对象级召回上限只有 0.71–0.92））；实现 [tools/target_pr.py](tools/target_pr.py)（输出 `results/target_pr/<stem>.json`，[tools/target_pr_all.sh](tools/target_pr_all.sh) 并行约 12 min）、[tools/plot_pr_object.py](tools/plot_pr_object.py)、[tools/plot_pr_textbook.py](tools/plot_pr_textbook.py)；**参考图"精度贴 1.0 平推"像素级做不到**——0.02 % 前景下 255 这一筒的精度只有 Ours 0.835、SAM3 0.651、DNA-Net 0.390，像素级只能从 0.83 起步；正文若配像素级 ROC 用 `pr_2`，配目标级 Pd–Fa（v12）用 `pr_obj`，两者 AP 不可互比、都不进 xlsx；图例贴紧坐标轴右缘（`bbox_to_anchor=(ax.x1+0.012, …)`，锚在固定图幅比例上会留一大片空白）；`--highlight` 指定加粗置顶的方法（默认 `Ours`，方法集里没有它时不加粗）；**红色只留给 highlight**，其余曲线从不含红色的 16 色调色板里取（`color_map()`），否则 14 条曲线时第一个基线和 Ours 会同为红色。**一致性**：像素级 `t=128` 的 precision/recall 可复原表中 F1/IoU（Ours precision 0.58130、recall 0.82963 → F1 0.68361、IoU 0.51931，与第 20 行一致；旧预测同点为 0.64637/0.59388 → 0.61912/0.44835）；目标级 `t=128` 的 Pd/Fa 与表中 13 行全部逐位吻合（Ours 0.89151 / 1.717e-05，与第 20 行一致；旧预测 0.82731 / 2.100e-06 存档于 `results/target_curves/Ours_prev_20261105.json`）。**读图**：① 面积指标报 **pAUC@5×10⁻⁴**（基线操作点 Fa@t=128 ≤ 2.4×10⁻⁴）；v8 换上 1105 的最新 Ours 后，两个窗口的 pAUC（**0.85234 / 0.89420**）与 AP（**0.69984**）都第一，像素 TPR@t=128 从 0.594 提到 **0.830**、FPR 从 6.7×10⁻⁵ 升到 1.2×10⁻⁴（仍是 9 个里第二低）；ROC 上 Ours 在 FPR≈3×10⁻⁴ 就到 0.94 平台，其余 8 个最高只有 0.737；SAM3 平台最高（0.737）但拐点在 4.9×10⁻⁴、Fa 是 Ours 的 3.6 倍，属"用更多误检换更高检出"，正文要把 Fa 一并给出；画到 8×10⁻⁴ 后按窗口积的 `pAUC@8×10⁻⁴` 会把弥散输出方法抬高，summary 两个窗口都列；② 全范围 AUC 不能用来排名（几乎不预测前景的方法 0.977–0.981），与 S/MAE 被背景主导同类；③ 目标级图（`v12_20261105/`，1105 批次）Ours 平台 Pd 0.922 最高、拐点 Fa 6.0×10⁻⁶ 比次优 HDNet（5.2×10⁻⁵）低 8.6 倍，拐点 Fa 跨度 17 倍，**目标级仍主推 log 轴**；④ 像素级 `Pd@t=128` 是前景像素召回率，与表中目标级 Pd 不同口径。曲线成品按同样目录结构同步到服务器 `Ours/roc_pr/`，重画脚本同步在服务器 `tools/`；1105 的 Ours 预测包同时上传到服务器 `Ours/1105Ours_result/Ours.zip`。**曲线与第 20 行 Ours 的八项指标现在同为 1105 这批预测**，可以互相引证；旧预测（`test_maps_20261105_prev`）的曲线与指标只作历史对照。口径、版本对照与复现命令见 [docs/Seal_ROC_PR曲线.md](docs/Seal_ROC_PR曲线.md)，预览 `docs/assets/seal_roc_pr_v13.png`（现行，全量 14 条）、`docs/assets/seal_roc_pr_v10.png`（8 个对比方法版）、`docs/assets/seal_pd_fa_v12.png`（现行目标级）、`docs/assets/seal_pd_fa_v3.png`（旧预测目标级）。
+- ROC / P-R / Pd–Fa 曲线：像素级曲线用 [tools/roc_hist.py](tools/roc_hist.py) 把预测值按 GT 前景（`gt > 127`）/背景分箱成 256 桶直方图（[tools/roc_hist_all.sh](tools/roc_hist_all.sh) → `results/roc_hist/<Method>.json`），目标级曲线用 [tools/target_curves.py](tools/target_curves.py) 在 63 个阈值上做 8 连通 + 质心 <3 px 一对一匹配（[tools/target_curves_all.sh](tools/target_curves_all.sh) 13 进程并行约 1.5 h → `results/target_curves/<Method>.json`）；出图分别是 [tools/plot_roc_pr.py](tools/plot_roc_pr.py) 与 [tools/plot_target_curves.py](tools/plot_target_curves.py)。产物按版本存 `Ours/roc_pr/<version>/`，**`v10_20261105/`（正文主图，Ours + 8 个重点对比方法：DNA-Net / MSHNet / RPCANet / HDNet / L2SKNet / BGM / RPCANet++ / SAM3）与 `v11_20261105/`（全量 14 条：再加 UIU-Net / SCTransNet / ILNet / DRPCA-Net / DURD）**，两者横轴都改成 **0–16×10⁻⁴（刻度 0/4/8/12/16）**，斜线因此更陡；**v10 用 1:1 坐标框（`--square`），v11 用 6.8×3.3 的长方形画布（不带 `--square`，约 1.92:1，用户偏好）**；`v9_20261105/`（全量）与 `v8_20261105/`（8 个）是 8×10⁻⁴ 宽扁版式的前身**，画法沿用 v5，Ours 红色加粗置顶（`--highlight Ours`）；`v7_20261105/` 是旧 Ours 预测的同一版式，`v6_20261105/` 是误删 Ours 的一版，二者仅留档；`v5_20261105/` 为 13 方法版（Ours + 12 基线），**`v12_20261105/` 为现行目标级 Pd–Fa（1105 批次，线性 + log）**，**`v13_20261105/` 是 v11 的 P-R 改进版**（画布、ROC 与 v11 逐点相同，只改 P-R 的显示：`--pr-min-pred 50000` + `--pr-endpoint-dot`，见下条），`v3_20261105/` 为旧预测的目标级版，`v4/v2/v1` 留档；每次同时存 PNG（600 dpi）与 PDF + `curves.json` + `summary.md`。**画法（用户明确要求）**：每个方法一条折线且只有两段直线——`(0,0) → 拐点 → (右边框, 平台)`；平台取右边框处的值（像素级 = TPR@FPR=窗口右端，目标级 = max Pd），拐点 = 沿横轴升序第一个 ≥0.98×平台 的点（`--two-segment`、`--knee-frac`）。横轴要够长（v10/v11 用 `--xmax 16e-4 --fig-width 4.8 --square`；v8/v9 为 `--xmax 8e-4 --fig-width 6.8`），否则平台贴右边框、看起来"戛然而止"；**`--square` 把坐标框设成 1:1**（`set_box_aspect(1)`），ROC 的斜线与纵轴夹角更小、P-R 是标准 45°；**`--legend-inside` 把图例放进坐标框**（ROC 右下、P-R 左下，>9 条自动两列），导出的 PNG 因此更紧凑（v10 正方形 2645×2564；v11 长方形 3589×1871）；两联图 `roc_pr` 的面板间距 0.28→0.14；改横轴时平台值按新的右边框取（`TPR@窗口右端`），所以 8→16×10⁻⁴ 后 SCTransNet/ILNet/UIU-Net 的平台从 0.88 升到 0.94；**面积指标仍报 `pAUC@5×10⁻⁴`**，该列不随画宽变化；P-R 保留 (0,1) 起点与 recall→1 的尾巴（`--pr-style v1`）；**P-R 为什么像"扇子且在半空截断"（v13 处理）**：Seal 预测是 8 位量化 + 大量硬零（`t=255` 时前景召回只有 0.25–0.61，多数方法在 28–57 % 的 GT 像素上恒为 0），recall 到不了 1，曲线右端自然停住；同时 `t` 接近 255 时整幅只剩几千个预测像素，precision 由个位数像素决定，于是 recall≈0 处冒出竖直毛刺、各条曲线分叉成扇面。v13 用两个**纯显示**开关处理、不动数据：`--pr-min-pred 50000` 丢掉"预测像素 < 5 万"的阈值（毛刺缩到几乎看不见）、`--pr-endpoint-dot` 在每条曲线末端加圆点（读作"到此为止"而非"画漏了"）；仍保留 (0,1) 哨兵，因为去掉后起点悬空（`--pr-style v2` 试过）。数据侧原因（硬零压低 recall）只能靠模型/后处理改，画图解决不了，分析见 [docs/Seal_ROC_PR曲线.md](docs/Seal_ROC_PR曲线.md)；**补充图 `v13_20261105/pr_1.{png,pdf}`**（`--pr-close`）把每条曲线从最后实测点**虚线**外推到 `(1,0)`、交接点画空心圆（实线=实测、虚线=外推）：这不是新数据，只说明"曲线本来就该到 (1,0)"——`recall=1` 时 precision 等于前景占比（Seal test 前景 105,712 px / 总 514,338,642 px = **2.06×10⁻⁴**），在 0–1 纵轴上即 0，所以补到 (1,0) 与补到 (1,2e-4) 肉眼无差；中间段按直线近似故称"大致"，虚线段不参与 pAUC/AP 积分，排名不变；补齐后各虚线在右下角**收成一束**是应有现象，不表示方法接近；**教科书式 P-R 两张补充图**：`v13_20261105/pr_2.{png,pdf}`（像素级、sklearn 惯例：256 个阈值含 `t=0`"全预测"、保留 (0,1) 哨兵，曲线自然终止于 (1,0)，AP 与 summary 一致 0.69984）与 `v13_20261105/pr_obj.{png,pdf}`（**对象级**：`recall` = 表中 Pd、`precision` = 匹配连通域 / 全部预测连通域，匹配规则与 Pd/Fa 相同；`t=128` 的 recall 与表中 Pd 逐位吻合、精度 Ours 0.960 vs 基线 0.66–0.75，Ours AP 0.890 vs 0.544–0.596，形状与参考图同形"高平台 + 右端陡降"，末端用实线同色补到 (1,0)、不画点、拐角 `--corner-radius 0.03` 贝塞尔倒角，**图例只写方法名**（AP 见 [docs/Seal_ROC_PR曲线.md](docs/Seal_ROC_PR曲线.md) 的表，要标回图上加 `--show-ap`）；**字号**：`roc` 与 `pr_obj` 用 `--font-scale 1.25` 出图（轴标签 9→11.25 pt、刻度 8→10 pt、图例 6.4→8 pt），画幅 **1.51:1**（`--fig-width 5.6 --fig-height 3.6`；pr_obj 用 5.487×3.5387 对齐），两张 PNG 同为 3087×2043（高度从 3.3 in 提到 3.6 in 是为了让框内图例不再压住平台线：HDNet 的 0.434 平台正好露在框上沿）（`plot_roc_pr.py`、`plot_pr_object.py` 都带 `--font-scale`，默认 1.0；v13 的 `pr.png`/`roc_pr.png` 仍是 1.0 版、1.92:1 宽幅）；图注须写明 0.71–0.92 → 1.0 那段不是实测，因对象级召回上限只有 0.71–0.92））；实现 [tools/target_pr.py](tools/target_pr.py)（输出 `results/target_pr/<stem>.json`，[tools/target_pr_all.sh](tools/target_pr_all.sh) 并行约 12 min）、[tools/plot_pr_object.py](tools/plot_pr_object.py)、[tools/plot_pr_textbook.py](tools/plot_pr_textbook.py)；**参考图"精度贴 1.0 平推"像素级做不到**——0.02 % 前景下 255 这一筒的精度只有 Ours 0.835、SAM3 0.651、DNA-Net 0.390，像素级只能从 0.83 起步；正文若配像素级 ROC 用 `pr_2`，配目标级 Pd–Fa（v12）用 `pr_obj`，两者 AP 不可互比、都不进 xlsx；图例贴紧坐标轴右缘（`bbox_to_anchor=(ax.x1+0.012, …)`，锚在固定图幅比例上会留一大片空白）；`--highlight` 指定加粗置顶的方法（默认 `Ours`，方法集里没有它时不加粗）；**红色只留给 highlight**，其余曲线从不含红色的 16 色调色板里取（`color_map()`），否则 14 条曲线时第一个基线和 Ours 会同为红色。**一致性**：像素级 `t=128` 的 precision/recall 可复原表中 F1/IoU（Ours precision 0.58130、recall 0.82963 → F1 0.68361、IoU 0.51931，与第 20 行一致；旧预测同点为 0.64637/0.59388 → 0.61912/0.44835）；目标级 `t=128` 的 Pd/Fa 与表中 13 行全部逐位吻合（Ours 0.89151 / 1.717e-05，与第 20 行一致；旧预测 0.82731 / 2.100e-06 存档于 `results/target_curves/Ours_prev_20261105.json`）。**读图**：① 面积指标报 **pAUC@5×10⁻⁴**（基线操作点 Fa@t=128 ≤ 2.4×10⁻⁴）；v8 换上 1105 的最新 Ours 后，两个窗口的 pAUC（**0.85234 / 0.89420**）与 AP（**0.69984**）都第一，像素 TPR@t=128 从 0.594 提到 **0.830**、FPR 从 6.7×10⁻⁵ 升到 1.2×10⁻⁴（仍是 9 个里第二低）；ROC 上 Ours 在 FPR≈3×10⁻⁴ 就到 0.94 平台，其余 8 个最高只有 0.737；SAM3 平台最高（0.737）但拐点在 4.9×10⁻⁴、Fa 是 Ours 的 3.6 倍，属"用更多误检换更高检出"，正文要把 Fa 一并给出；画到 8×10⁻⁴ 后按窗口积的 `pAUC@8×10⁻⁴` 会把弥散输出方法抬高，summary 两个窗口都列；② 全范围 AUC 不能用来排名（几乎不预测前景的方法 0.977–0.981），与 S/MAE 被背景主导同类；③ 目标级图（`v12_20261105/`，1105 批次）Ours 平台 Pd 0.922 最高、拐点 Fa 6.0×10⁻⁶ 比次优 HDNet（5.2×10⁻⁵）低 8.6 倍，拐点 Fa 跨度 17 倍，**目标级仍主推 log 轴**；④ 像素级 `Pd@t=128` 是前景像素召回率，与表中目标级 Pd 不同口径。曲线成品按同样目录结构同步到服务器 `Ours/roc_pr/`，重画脚本同步在服务器 `tools/`；1105 的 Ours 预测包同时上传到服务器 `Ours/1105Ours_result/Ours.zip`。**曲线与第 20 行 Ours 的八项指标现在同为 1105 这批预测**，可以互相引证；旧预测（`test_maps_20261105_prev`）的曲线与指标只作历史对照。口径、版本对照与复现命令见 [docs/Seal_ROC_PR曲线.md](docs/Seal_ROC_PR曲线.md)，预览 `docs/assets/seal_roc_pr_v13.png`（现行，全量 14 条）、`docs/assets/seal_roc_pr_v10.png`（8 个对比方法版）、`docs/assets/seal_pd_fa_v12.png`（现行目标级）、`docs/assets/seal_pd_fa_v3.png`（旧预测目标级）。
 - IoU 的边界敏感性：Seal 目标平均 14.3 像素，把 GT 膨胀/腐蚀 1 像素当预测只能得到 IoU 0.3910 / 0.0826；表中 IoU 0.19–0.31 对应约 1–2 像素边界误差，不能读作分割质量百分比，须与 Fw/F1/Pd/Fa 合看，详见 [定义对照](docs/小目标评价指标_定义与代码对照.md#iou-的边界敏感性seal-gt-实测)。
 - 实验记录：[ACM](docs/ACM_Seal实验记录.md)、[DNA-Net](docs/DNANet_Seal实验记录.md)、[MSHNet](docs/MSHNet_Seal实验记录.md)、[UIU-Net](docs/UIU-Net_Seal实验记录.md)、[SCTransNet](docs/SCTransNet_Seal实验记录.md)、[RPCANet](docs/RPCANet_Seal实验记录.md)、[HDNet](docs/HDNet_Seal实验记录.md)、[ILNet](docs/ILNet_Seal实验记录.md)、[RPCANet++](docs/RPCANet++_Seal实验记录.md)、[L2SKNet](docs/L2SKNet_Seal实验记录.md)、[BGM](docs/BGM_Seal实验记录.md)、[DRPCA-Net](docs/DRPCA-Net_Seal实验记录.md)、[DURD](docs/DURD_Seal实验记录.md)、[DHiF](docs/DHiF_Seal实验记录.md)，汇总见 [Seal全监督基线评估汇总](docs/Seal全监督基线评估汇总.md)，定性图见 [Seal定性对比图](docs/Seal定性对比图.md)。
 
